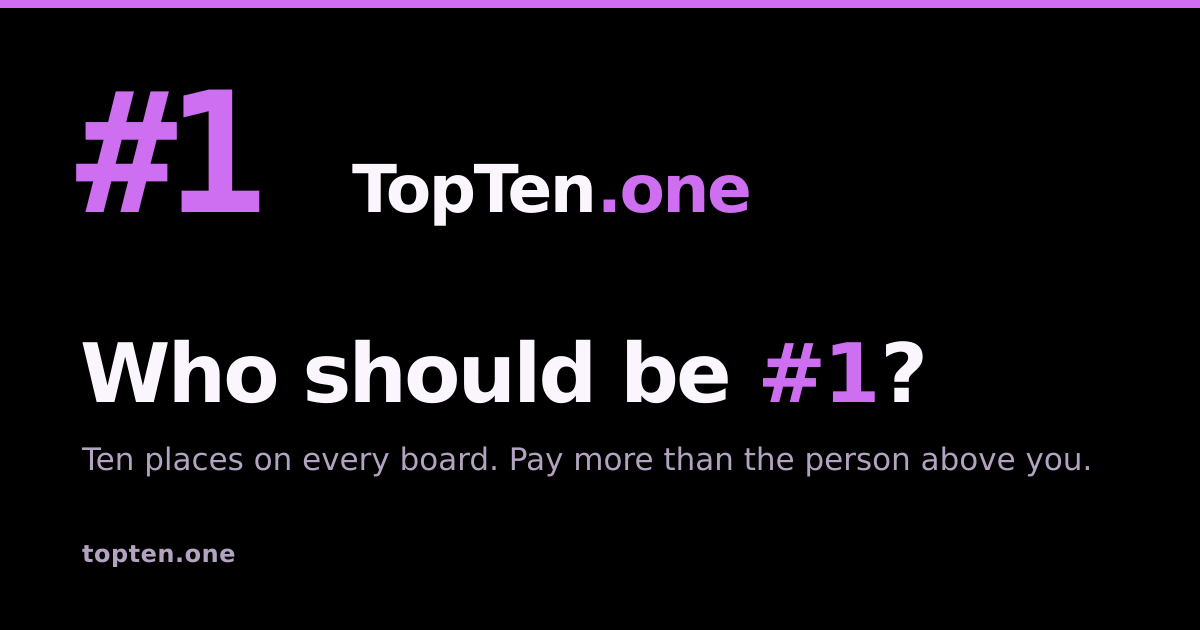
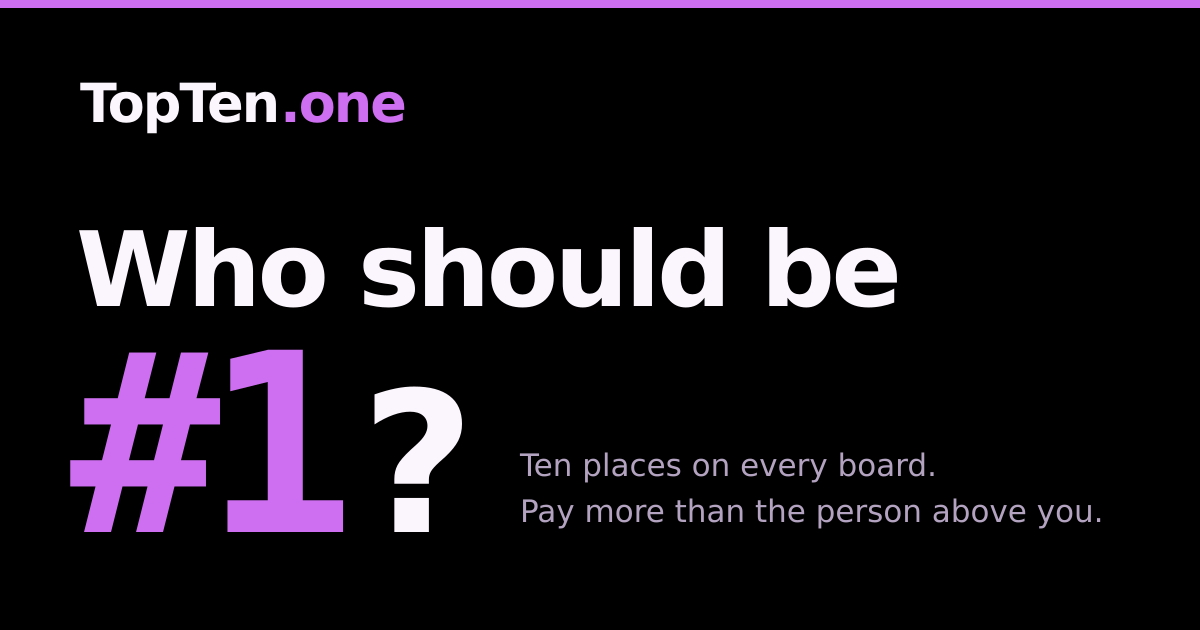
One #1 on the share card
The card wrote #1 twice: once as the mark in the corner and once inside
the question. The mark is now the end of the question -- "Who should
be" and then the #1, large and violet, with the question mark after it
-- so it is written once and is both the logo and the sentence. The
picture's address moves to ?v=3 so the networks fetch this one.

Claude-Session: https://claude.ai/code/session_01UWhtbtTDksfobSFqthfz4i

diff --git a/instagram-influencers/index.html b/instagram-influencers/index.html
@@ -57,14 +57,14 @@ try {
 <meta property="og:site_name" content="TopTen.one">
 <meta property="og:title" content="Top 10 on Instagram Influencers — TopTen.one">
 <meta property="og:description" content="The ten most-paid Instagram Influencers creators right now. Rank is decided by money paid, not by an algorithm. Add yours from $2.">
-<meta property="og:image" content="https://topten.one/og-image.png?v=2">
+<meta property="og:image" content="https://topten.one/og-image.png?v=3">
 <meta property="og:image:width" content="1200">
 <meta property="og:image:height" content="630">
 <meta property="og:url" content="https://topten.one/instagram-influencers/">
 <meta name="twitter:card" content="summary_large_image">
 <meta name="twitter:title" content="Top 10 on Instagram Influencers — TopTen.one">
 <meta name="twitter:description" content="The ten most-paid Instagram Influencers creators right now. Rank is decided by money paid, not by an algorithm. Add yours from $2.">
-<meta name="twitter:image" content="https://topten.one/og-image.png?v=2">
+<meta name="twitter:image" content="https://topten.one/og-image.png?v=3">
 
 <link rel="preconnect" href="https://unavatar.io" crossorigin>
 <link rel="stylesheet" href="/styles.css?v=95bf8a43ca">

diff --git a/facebook-influencers/index.html b/facebook-influencers/index.html
@@ -57,14 +57,14 @@ try {
 <meta property="og:site_name" content="TopTen.one">
 <meta property="og:title" content="Top 10 on Facebook Influencers — TopTen.one">
 <meta property="og:description" content="The ten most-paid Facebook Influencers creators right now. Rank is decided by money paid, not by an algorithm. Add yours from $2.">
-<meta property="og:image" content="https://topten.one/og-image.png?v=2">
+<meta property="og:image" content="https://topten.one/og-image.png?v=3">
 <meta property="og:image:width" content="1200">
 <meta property="og:image:height" content="630">
 <meta property="og:url" content="https://topten.one/facebook-influencers/">
 <meta name="twitter:card" content="summary_large_image">
 <meta name="twitter:title" content="Top 10 on Facebook Influencers — TopTen.one">
 <meta name="twitter:description" content="The ten most-paid Facebook Influencers creators right now. Rank is decided by money paid, not by an algorithm. Add yours from $2.">
-<meta name="twitter:image" content="https://topten.one/og-image.png?v=2">
+<meta name="twitter:image" content="https://topten.one/og-image.png?v=3">
 
 <link rel="preconnect" href="https://unavatar.io" crossorigin>
 <link rel="stylesheet" href="/styles.css?v=95bf8a43ca">

diff --git a/us-parties/index.html b/us-parties/index.html
@@ -57,14 +57,14 @@ try {
 <meta property="og:site_name" content="TopTen.one">
 <meta property="og:title" content="Top 10 on U.S. Political Parties — TopTen.one">
 <meta property="og:description" content="The ten most-paid U.S. Political Parties parties right now. Rank is decided by money paid, not by an algorithm. Add yours from $2.">
-<meta property="og:image" content="https://topten.one/og-image.png?v=2">
+<meta property="og:image" content="https://topten.one/og-image.png?v=3">
 <meta property="og:image:width" content="1200">
 <meta property="og:image:height" content="630">
 <meta property="og:url" content="https://topten.one/us-parties/">
 <meta name="twitter:card" content="summary_large_image">
 <meta name="twitter:title" content="Top 10 on U.S. Political Parties — TopTen.one">
 <meta name="twitter:description" content="The ten most-paid U.S. Political Parties parties right now. Rank is decided by money paid, not by an algorithm. Add yours from $2.">
-<meta name="twitter:image" content="https://topten.one/og-image.png?v=2">
+<meta name="twitter:image" content="https://topten.one/og-image.png?v=3">
 
 <link rel="preconnect" href="https://unavatar.io" crossorigin>
 <link rel="stylesheet" href="/styles.css?v=95bf8a43ca">

diff --git a/us-politicians/index.html b/us-politicians/index.html
@@ -57,14 +57,14 @@ try {
 <meta property="og:site_name" content="TopTen.one">
 <meta property="og:title" content="Top 10 on U.S. Political Figures — TopTen.one">
 <meta property="og:description" content="The ten most-paid U.S. Political Figures names right now. Rank is decided by money paid, not by an algorithm. Add yours from $2.">
-<meta property="og:image" content="https://topten.one/og-image.png?v=2">
+<meta property="og:image" content="https://topten.one/og-image.png?v=3">
 <meta property="og:image:width" content="1200">
 <meta property="og:image:height" content="630">
 <meta property="og:url" content="https://topten.one/us-politicians/">
 <meta name="twitter:card" content="summary_large_image">
 <meta name="twitter:title" content="Top 10 on U.S. Political Figures — TopTen.one">
 <meta name="twitter:description" content="The ten most-paid U.S. Political Figures names right now. Rank is decided by money paid, not by an algorithm. Add yours from $2.">
-<meta name="twitter:image" content="https://topten.one/og-image.png?v=2">
+<meta name="twitter:image" content="https://topten.one/og-image.png?v=3">
 
 <link rel="preconnect" href="https://unavatar.io" crossorigin>
 <link rel="stylesheet" href="/styles.css?v=95bf8a43ca">

diff --git a/youtube-influencers/index.html b/youtube-influencers/index.html
@@ -57,14 +57,14 @@ try {
 <meta property="og:site_name" content="TopTen.one">
 <meta property="og:title" content="Top 10 on YouTube Influencers — TopTen.one">
 <meta property="og:description" content="The ten most-paid YouTube Influencers creators right now. Rank is decided by money paid, not by an algorithm. Add yours from $2.">
-<meta property="og:image" content="https://topten.one/og-image.png?v=2">
+<meta property="og:image" content="https://topten.one/og-image.png?v=3">
 <meta property="og:image:width" content="1200">
 <meta property="og:image:height" content="630">
 <meta property="og:url" content="https://topten.one/youtube-influencers/">
 <meta name="twitter:card" content="summary_large_image">
 <meta name="twitter:title" content="Top 10 on YouTube Influencers — TopTen.one">
 <meta name="twitter:description" content="The ten most-paid YouTube Influencers creators right now. Rank is decided by money paid, not by an algorithm. Add yours from $2.">
-<meta name="twitter:image" content="https://topten.one/og-image.png?v=2">
+<meta name="twitter:image" content="https://topten.one/og-image.png?v=3">
 
 <link rel="preconnect" href="https://unavatar.io" crossorigin>
 <link rel="stylesheet" href="/styles.css?v=95bf8a43ca">

diff --git a/tiktok-influencers/index.html b/tiktok-influencers/index.html
@@ -57,14 +57,14 @@ try {
 <meta property="og:site_name" content="TopTen.one">
 <meta property="og:title" content="Top 10 on TikTok Influencers — TopTen.one">
 <meta property="og:description" content="The ten most-paid TikTok Influencers creators right now. Rank is decided by money paid, not by an algorithm. Add yours from $2.">
-<meta property="og:image" content="https://topten.one/og-image.png?v=2">
+<meta property="og:image" content="https://topten.one/og-image.png?v=3">
 <meta property="og:image:width" content="1200">
 <meta property="og:image:height" content="630">
 <meta property="og:url" content="https://topten.one/tiktok-influencers/">
 <meta name="twitter:card" content="summary_large_image">
 <meta name="twitter:title" content="Top 10 on TikTok Influencers — TopTen.one">
 <meta name="twitter:description" content="The ten most-paid TikTok Influencers creators right now. Rank is decided by money paid, not by an algorithm. Add yours from $2.">
-<meta name="twitter:image" content="https://topten.one/og-image.png?v=2">
+<meta name="twitter:image" content="https://topten.one/og-image.png?v=3">
 
 <link rel="preconnect" href="https://unavatar.io" crossorigin>
 <link rel="stylesheet" href="/styles.css?v=95bf8a43ca">

diff --git a/gifts/index.html b/gifts/index.html
@@ -57,14 +57,14 @@ try {
 <meta property="og:site_name" content="TopTen.one">
 <meta property="og:title" content="Top 10 on Gifts &amp; Airdrops — TopTen.one">
 <meta property="og:description" content="The ten most-paid Gifts &amp; Airdrops giveaways right now. Rank is decided by money paid, not by an algorithm. Add yours from $2.">
-<meta property="og:image" content="https://topten.one/og-image.png?v=2">
+<meta property="og:image" content="https://topten.one/og-image.png?v=3">
 <meta property="og:image:width" content="1200">
 <meta property="og:image:height" content="630">
 <meta property="og:url" content="https://topten.one/gifts/">
 <meta name="twitter:card" content="summary_large_image">
 <meta name="twitter:title" content="Top 10 on Gifts &amp; Airdrops — TopTen.one">
 <meta name="twitter:description" content="The ten most-paid Gifts &amp; Airdrops giveaways right now. Rank is decided by money paid, not by an algorithm. Add yours from $2.">
-<meta name="twitter:image" content="https://topten.one/og-image.png?v=2">
+<meta name="twitter:image" content="https://topten.one/og-image.png?v=3">
 
 <link rel="preconnect" href="https://unavatar.io" crossorigin>
 <link rel="stylesheet" href="/styles.css?v=95bf8a43ca">

diff --git a/football-players/index.html b/football-players/index.html
@@ -57,14 +57,14 @@ try {
 <meta property="og:site_name" content="TopTen.one">
 <meta property="og:title" content="Top 10 on Football Players — TopTen.one">
 <meta property="og:description" content="The ten most-paid Football Players players right now. Rank is decided by money paid, not by an algorithm. Add yours from $2.">
-<meta property="og:image" content="https://topten.one/og-image.png?v=2">
+<meta property="og:image" content="https://topten.one/og-image.png?v=3">
 <meta property="og:image:width" content="1200">
 <meta property="og:image:height" content="630">
 <meta property="og:url" content="https://topten.one/football-players/">
 <meta name="twitter:card" content="summary_large_image">
 <meta name="twitter:title" content="Top 10 on Football Players — TopTen.one">
 <meta name="twitter:description" content="The ten most-paid Football Players players right now. Rank is decided by money paid, not by an algorithm. Add yours from $2.">
-<meta name="twitter:image" content="https://topten.one/og-image.png?v=2">
+<meta name="twitter:image" content="https://topten.one/og-image.png?v=3">
 
 <link rel="preconnect" href="https://unavatar.io" crossorigin>
 <link rel="stylesheet" href="/styles.css?v=95bf8a43ca">

diff --git a/bellator/index.html b/bellator/index.html
@@ -57,14 +57,14 @@ try {
 <meta property="og:site_name" content="TopTen.one">
 <meta property="og:title" content="Top 10 on Bellator Fighters — TopTen.one">
 <meta property="og:description" content="The ten most-paid Bellator Fighters fighters right now. Rank is decided by money paid, not by an algorithm. Add yours from $2.">
-<meta property="og:image" content="https://topten.one/og-image.png?v=2">
+<meta property="og:image" content="https://topten.one/og-image.png?v=3">
 <meta property="og:image:width" content="1200">
 <meta property="og:image:height" content="630">
 <meta property="og:url" content="https://topten.one/bellator/">
 <meta name="twitter:card" content="summary_large_image">
 <meta name="twitter:title" content="Top 10 on Bellator Fighters — TopTen.one">
 <meta name="twitter:description" content="The ten most-paid Bellator Fighters fighters right now. Rank is decided by money paid, not by an algorithm. Add yours from $2.">
-<meta name="twitter:image" content="https://topten.one/og-image.png?v=2">
+<meta name="twitter:image" content="https://topten.one/og-image.png?v=3">
 
 <link rel="preconnect" href="https://unavatar.io" crossorigin>
 <link rel="stylesheet" href="/styles.css?v=95bf8a43ca">

diff --git a/x-influencers/index.html b/x-influencers/index.html
@@ -57,14 +57,14 @@ try {
 <meta property="og:site_name" content="TopTen.one">
 <meta property="og:title" content="Top 10 on X Influencers — TopTen.one">
 <meta property="og:description" content="The ten most-paid X Influencers creators right now. Rank is decided by money paid, not by an algorithm. Add yours from $2.">
-<meta property="og:image" content="https://topten.one/og-image.png?v=2">
+<meta property="og:image" content="https://topten.one/og-image.png?v=3">
 <meta property="og:image:width" content="1200">
 <meta property="og:image:height" content="630">
 <meta property="og:url" content="https://topten.one/x-influencers/">
 <meta name="twitter:card" content="summary_large_image">
 <meta name="twitter:title" content="Top 10 on X Influencers — TopTen.one">
 <meta name="twitter:description" content="The ten most-paid X Influencers creators right now. Rank is decided by money paid, not by an algorithm. Add yours from $2.">
-<meta name="twitter:image" content="https://topten.one/og-image.png?v=2">
+<meta name="twitter:image" content="https://topten.one/og-image.png?v=3">
 
 <link rel="preconnect" href="https://unavatar.io" crossorigin>
 <link rel="stylesheet" href="/styles.css?v=95bf8a43ca">

diff --git a/football-clubs/index.html b/football-clubs/index.html
@@ -57,14 +57,14 @@ try {
 <meta property="og:site_name" content="TopTen.one">
 <meta property="og:title" content="Top 10 on Football Clubs — TopTen.one">
 <meta property="og:description" content="The ten most-paid Football Clubs clubs right now. Rank is decided by money paid, not by an algorithm. Add yours from $2.">
-<meta property="og:image" content="https://topten.one/og-image.png?v=2">
+<meta property="og:image" content="https://topten.one/og-image.png?v=3">
 <meta property="og:image:width" content="1200">
 <meta property="og:image:height" content="630">
 <meta property="og:url" content="https://topten.one/football-clubs/">
 <meta name="twitter:card" content="summary_large_image">
 <meta name="twitter:title" content="Top 10 on Football Clubs — TopTen.one">
 <meta name="twitter:description" content="The ten most-paid Football Clubs clubs right now. Rank is decided by money paid, not by an algorithm. Add yours from $2.">
-<meta name="twitter:image" content="https://topten.one/og-image.png?v=2">
+<meta name="twitter:image" content="https://topten.one/og-image.png?v=3">
 
 <link rel="preconnect" href="https://unavatar.io" crossorigin>
 <link rel="stylesheet" href="/styles.css?v=95bf8a43ca">

diff --git a/one-championship/index.html b/one-championship/index.html
@@ -57,14 +57,14 @@ try {
 <meta property="og:site_name" content="TopTen.one">
 <meta property="og:title" content="Top 10 on ONE Fighters — TopTen.one">
 <meta property="og:description" content="The ten most-paid ONE Fighters fighters right now. Rank is decided by money paid, not by an algorithm. Add yours from $2.">
-<meta property="og:image" content="https://topten.one/og-image.png?v=2">
+<meta property="og:image" content="https://topten.one/og-image.png?v=3">
 <meta property="og:image:width" content="1200">
 <meta property="og:image:height" content="630">
 <meta property="og:url" content="https://topten.one/one-championship/">
 <meta name="twitter:card" content="summary_large_image">
 <meta name="twitter:title" content="Top 10 on ONE Fighters — TopTen.one">
 <meta name="twitter:description" content="The ten most-paid ONE Fighters fighters right now. Rank is decided by money paid, not by an algorithm. Add yours from $2.">
-<meta name="twitter:image" content="https://topten.one/og-image.png?v=2">
+<meta name="twitter:image" content="https://topten.one/og-image.png?v=3">
 
 <link rel="preconnect" href="https://unavatar.io" crossorigin>
 <link rel="stylesheet" href="/styles.css?v=95bf8a43ca">
